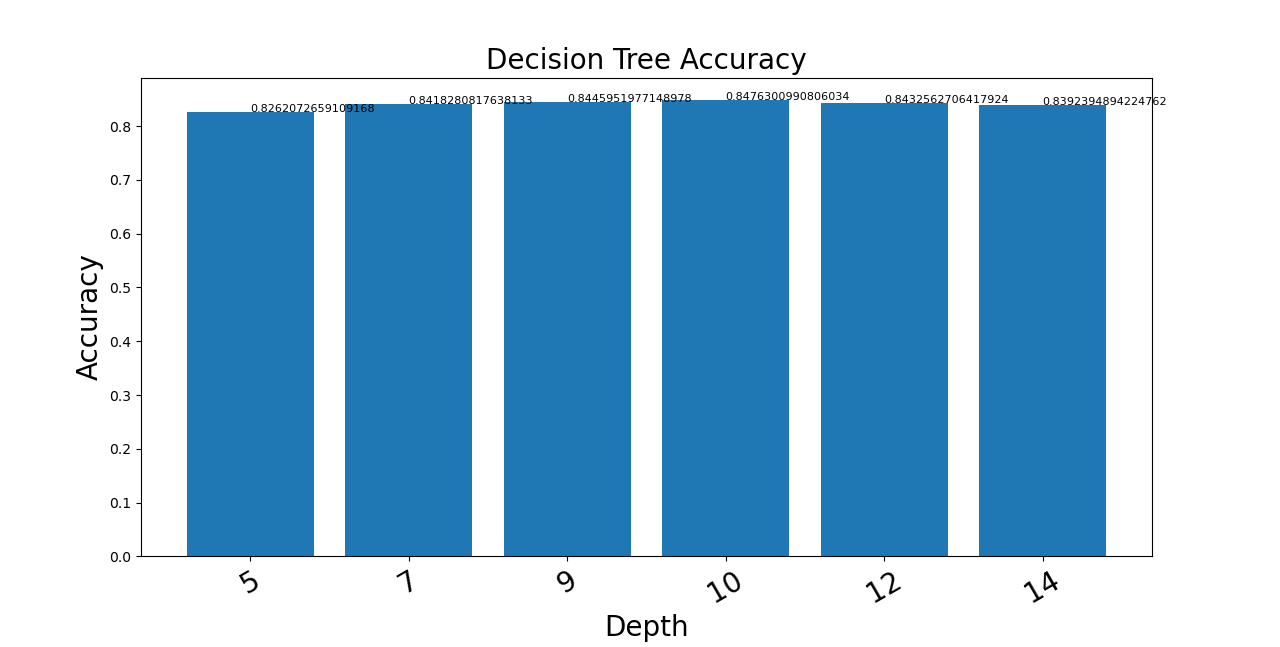
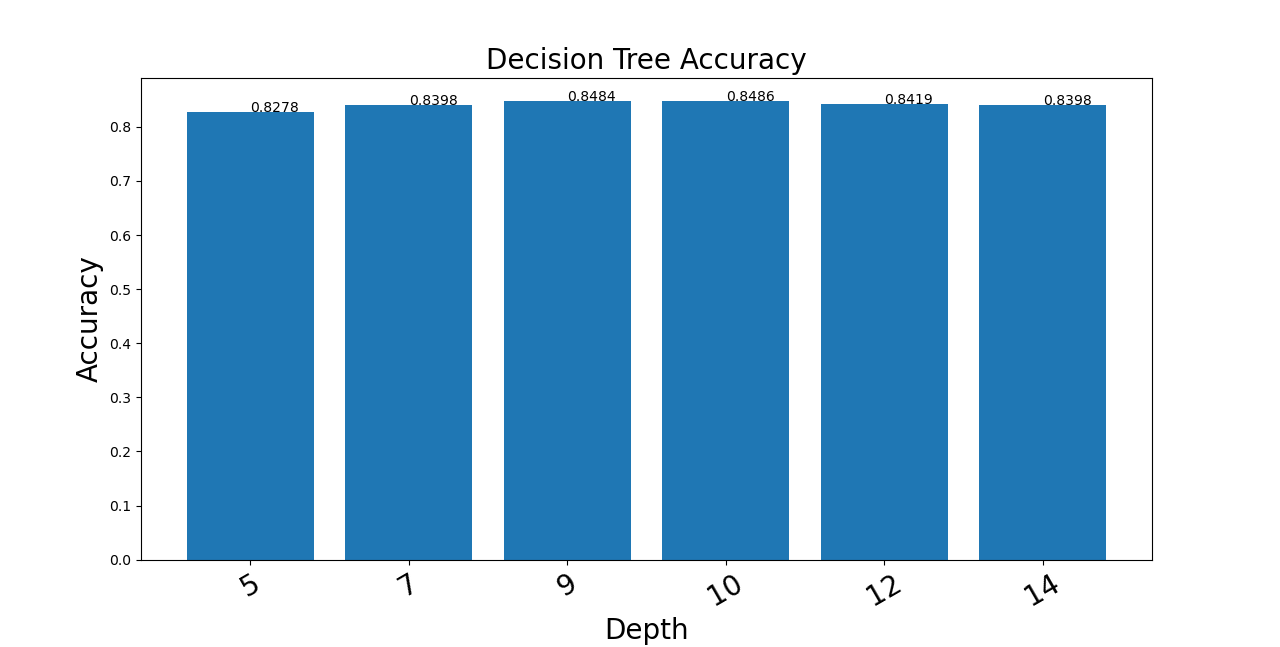
Updated charts

diff --git a/Driver.py b/Driver.py
@@ -13,20 +13,22 @@ def main():
 
     seed = 10
 
-    '''max_depth_list = [3, 5, 10, 12]
+    max_depth_list = [5, 7, 9, 10, 12, 14]
     dt_accuracy_list = decision_tree.decision_tree(df, seed, max_depth_list=max_depth_list)
-    plot_bar_accuracy("Decision Tree Accuracy", "Depth", "Accuracy", dt_accuracy_list, max_depth_list)'''
+    plot_bar_accuracy("Decision Tree Accuracy", "Depth", "Accuracy", dt_accuracy_list, max_depth_list)
 
-    num_of_trees_list = [10, 15, 20, 25, 30, 35]
+    '''num_of_trees_list = [10, 15, 20, 25, 30, 35]
     rf_accuracy_list = random_forest.random_forest(df, seed, num_of_trees_list=num_of_trees_list)
-    plot_bar_accuracy("Random Forest Accuracy", "Trees", "Accuracy", rf_accuracy_list, num_of_trees_list)
+    plot_bar_accuracy("Random Forest Accuracy", "Trees", "Accuracy", rf_accuracy_list, num_of_trees_list)'''
 
-    nb_accuracy = naive_bayes.naive_bayes(df, seed)
-    plot_bar_accuracy("Naive Bayes Accuracy", "Smoothing", "Accuracy", [nb_accuracy], [1.0])
+    '''nb_accuracy = naive_bayes.naive_bayes(df, seed)
+    plot_bar_accuracy("Naive Bayes Accuracy", "Smoothing", "Accuracy", [0, 0, nb_accuracy, 0, 0], ["", "", 1.0, "", ""])'''
 
-    neighbors_list = [50]
+    '''neighbors_list = [10, 15, 25, 150, 210, 250, 300]
     kNN_accuracy_list = kNN.k_nearest_neighbors(df, seed, neighbors_list=neighbors_list)
-    plot_bar_accuracy("K Nearest Neighbors Accuracy", "Neighbors", "Accuracy", kNN_accuracy_list, neighbors_list)
+    plot_bar_accuracy("K Nearest Neighbors Accuracy", "Neighbors", "Accuracy", kNN_accuracy_list, neighbors_list)'''
+
+    print("")
 
 
 # This function will create a bar plot for each list given to it
@@ -40,7 +42,7 @@ def plot_bar_accuracy(title, x_label, y_label, data, label):
     plt.xticks(index, label, fontsize=20, rotation=30)
     plt.title(title, fontsize=20)
     for index, value in enumerate(data):
-        plt.text(index, value, str(value), fontsize=8)
+        plt.text(index, value, "{0:.4f}".format(value), fontsize=10)
     plt.show()
 
 

diff --git a/data_preparation.py b/data_preparation.py
@@ -131,8 +131,6 @@ def prepare_data(files):
 
     return df
 
-    # todo: Try also by changing classes to 'attack', 'midfield', 'defence', 'gk', instead of 'st', 'rw', 'lw', 'cdm'...
-
 def printClassCount(df):
     forward = df.filter(df.team_position == "Forward").count()
     print("Number of forwards: " + str(forward))
